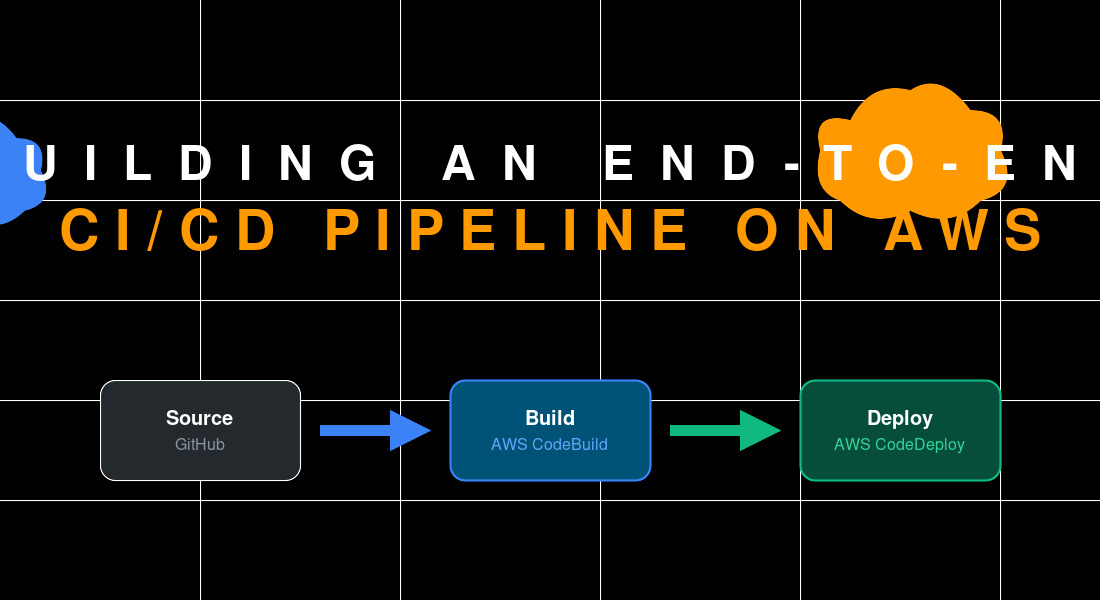
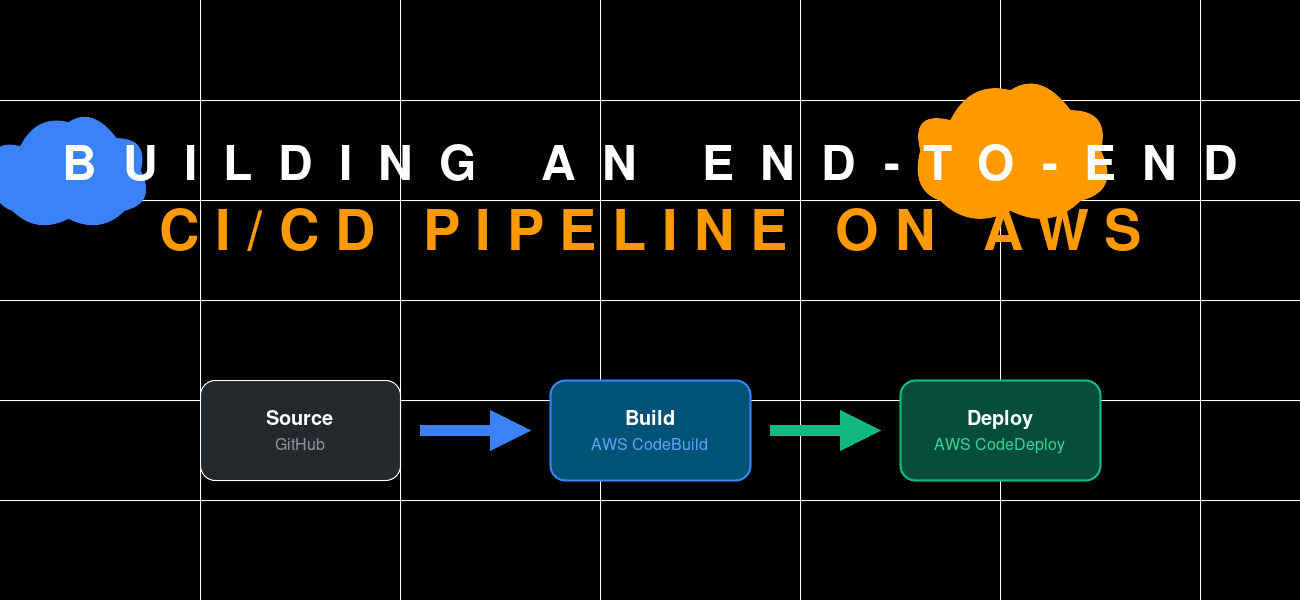
Update AWS CI/CD header image to 1300x600

diff --git a/_posts/2026-04-17-building-an-end-to-end-ci-cd-pipeline-on-aws-with-github-codebuild-and-codedeploy.md b/_posts/2026-04-17-building-an-end-to-end-ci-cd-pipeline-on-aws-with-github-codebuild-and-codedeploy.md
@@ -7,7 +7,7 @@ tags: [AWS, CI/CD, Docker, GitHub, CodeBuild, CodeDeploy]
 image:
   path: /assets/headers/aws-cicd-pipeline.jpg
   alt: "AWS CI/CD Pipeline"
-  width: 1100
+  width: 1300
   height: 600
 published: true
 ---
